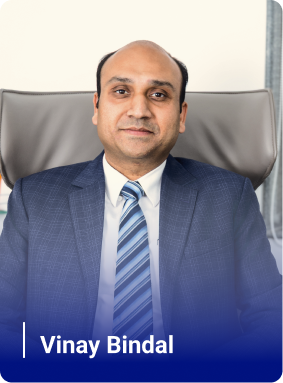
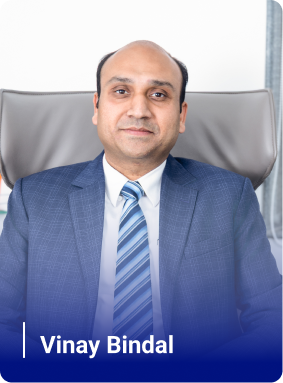
Navbar added activ link and chnages prfile pic in teams

diff --git a/src/components/team/team-info.ts b/src/components/team/team-info.ts
@@ -5,23 +5,39 @@ export const teamInformation: TeamInfoProps[] = [
     {
         info: ankurShahInfo,
         isAlignRight: false,
-        description: `Ankur Shah is a seasoned consulting professional with over 14 years of experience across international taxation, transfer pricing, indirect taxation (GST), business valuations, and labour law compliance. A Chartered Accountant (CA) with a Bachelor’s degree in Commerce, he brings a wealth of expertise in guiding businesses through the complexities of India’s regulatory and tax landscape.<br><br>
+        description: `Ankur Shah is a seasoned consulting professional with over 14 years of experience in international taxation, transfer pricing, indirect taxation (GST), and business valuations. A Chartered Accountant (CA) with a Bachelor’s degree in Commerce, Ankur brings invaluable expertise to businesses navigating India’s complex regulatory and tax landscape, offering strategic insights and tailored solutions.<br><br>
  
-His career includes a distinguished nine-year tenure at Ernst & Young (EY), where he advised multinational corporations (MNCs) on tax-efficient structuring, cross-border investment planning, and regulatory compliance. Ankur has been instrumental in helping businesses navigate evolving tax regulations, optimize operations, and mitigate tax exposure. His expertise extends to handling Advance Pricing Agreements (APAs) for long-term tax certainty and supporting clients in high-stakes litigation before the Appellate Tribunal.<br><br>With a forward-thinking perspective, Ankur is committed to delivering value-driven solutions that empower businesses to thrive in a dynamic regulatory environment.<br><br>
+His career includes a distinguished 9-year tenure at Ernst & Young (EY), where he advised multinational corporations (MNCs) on tax-efficient structuring, cross-border investment planning, and regulatory compliance. Ankur has been instrumental in helping businesses adapt to evolving tax regulations, optimize operations, and manage tax exposure. His experience also extends to handling Advance Pricing Agreements (APAs) for long-term tax certainty and representing clients in critical litigation before the Appellate Tribunal.<br><br>
  
-Ankur is a trusted advisor to both global enterprises and Indian businesses, being recognized for his strategic insights and practical solutions. His core areas of expertise include:<br>
+For Alvino Consultancy, Ankur plays a strategic advisory role, helping businesses make informed decisions around tax structuring, compliance, and operational efficiency. His approach combines in-depth knowledge with practical, value-driven solutions that enable businesses to thrive in a dynamic regulatory environment.<br><br>
+Ankur’s core areas of expertise include:<br>
 `,
-        listItems: [`Transfer Pricing: Compliance, strategic optimization, litigation support and managing APA cases.`, "Cross-Border Taxation: Structuring for India inbound and/ or outbound market entry, providing end-to-end support.", "Indirect Tax (GST): Compliance, advisory and litigation support.", "Business Valuation: Valuations for M&A and strategic decisions.", "Labour Law: Compliance and advisory services.", "Incentives Advisory: Assisting clients in obtaining government incentives and tax benefits.", "Equity & Debt Financing: Advising and supporting start-ups / businesses seeking finance"]
+        listItems: [
+            `<strong>Transfer Pricing:</strong> Compliance, strategic optimization, litigation support, and APA management.`,
+            "<strong>Indirect Tax (GST):</strong> Compliance, advisory, and litigation support.",
+            "<strong>Cross-Border Taxation:</strong> Structuring for inbound and outbound market entry, offering comprehensive support.",
+            "<strong>Incentives Advisory:</strong> Helping clients navigate and secure government incentives and tax benefits.",
+            "<strong>Business Valuation:</strong> Conducting valuations for M&A and strategic decision-making.",
+            "<strong>Equity & Debt Financing:</strong> Advising and supporting start-ups / businesses seeking finance"
+        ]
     },
     {
         info: bhaveshMehtaInfo,
         isAlignRight: true,
-        description: `Bhavesh Mehta is a distinguished consulting professional with over 14 years of expertise in corporate tax advisory, mergers & acquisitions (M&A), international taxation, cross-border investments, business valuations, and assurance advisory. A Chartered Accountant (CA) and a Bachelor of Commerce graduate, Bhavesh has a proven track record of advising leading multinational corporations on complex tax and regulatory matters, with a sharp focus on optimizing business tax structures and ensuring long-term tax efficiency.
-<br><br>With a deep understanding of India’s intricate tax and regulatory landscape, Bhavesh has successfully helped corporate clients streamline tax functions, enhance operational efficiency, and navigate industry-specific compliance requirements. His career includes over nine years with esteemed firms such as Economic Laws Practice (ELP) and BDO India, where he advised on high-profile M&A transactions, tax disputes, and regulatory compliance. Bhavesh has also represented clients before tax authorities up to the Appellate Tribunal, reinforcing his reputation as a trusted advocate in complex tax matters.
-<br><br>With a meticulous approach, Bhavesh is committed to delivering value-driven solutions that empower businesses to navigate complexities, optimize tax positions, and drive sustainable success.
-<br><br>Recognized for his strategic insights, technical analysis and pragmatic solutions, Bhavesh serves as a trusted advisor to businesses seeking sustainable growth and tax optimization. His core areas of expertise include:
+        description: `Bhavesh Mehta is a distinguished consulting professional with over 14 years of expertise in corporate tax advisory, mergers & acquisitions (M&A), international taxation, cross-border investments, business valuations, and assurance advisory. A Chartered Accountant (CA) and a Bachelor of Commerce graduate, Bhavesh has built a reputation for advising leading multinational corporations on complex tax and regulatory matters, with a strong focus on optimizing business tax structures and ensuring long-term tax efficiency.
+<br><br>With a deep understanding of India’s intricate tax and regulatory landscape, Bhavesh has consistently helped corporate clients streamline tax functions, enhance operational efficiency, and navigate industry-specific compliance requirements. His career includes over nine years with respected firms such as Economic Laws Practice (ELP) and BDO India, where he provided strategic guidance on high-profile M&A transactions, tax disputes, and regulatory compliance. Bhavesh has also represented clients before tax authorities up to the Appellate Tribunal, further cementing his reputation as a trusted advocate in complex tax matters.
+<br><br>For Alvino Consultancy, Bhavesh plays a key advisory role, providing strategic counsel on a range of tax and business challenges. His approach blends in-depth technical knowledge with practical solutions that empower businesses to optimize their tax positions, navigate regulatory complexities, and achieve sustainable growth.
+<br><br>Bhavesh’s core areas of expertise include:
 `,
-        listItems: ["Corporate Tax Advisory: Structuring efficient tax solutions for businesses.", "Cross-Border Taxation: Optimizing tax strategies for global operations.", "M&A & Business Valuation: Advising on tax aspects of mergers, acquisitions, and valuations.", "Assurance & Compliance: Providing strategic advisory for transparency and compliance.", "Wealth Management: Tailored solutions for personal wealth and family estates.", "Equity & Debt Financing: Structuring capital solutions for growth."]
+        subDescription: `<br>Through his advisory role at Alvino Consultancy, Bhavesh is recognized for delivering value-driven solutions that help businesses optimize their tax positions and navigate the complexities of a dynamic regulatory environment.`,
+        listItems: [
+            "<strong>Corporate Tax Advisory:</strong> Structuring efficient tax solutions for businesses.",
+            "<strong>Cross-Border Taxation:</strong> Optimizing tax strategies for global operations.",
+            "<strong>M&A & Business Valuation:</strong> Advising on tax aspects of mergers, acquisitions, and valuations.",
+            "<strong>Assurance & Compliance:</strong> Providing strategic advisory for transparency and compliance.",
+            "<strong>Wealth Management:</strong> Tailored solutions for personal wealth and family estates.",
+            "<strong>Equity & Debt Financing:</strong> Structuring capital solutions for growth."
+        ]
     },
     {
         info: vinayBindalInfo,

diff --git a/src/components/navbar/Navbar.tsx b/src/components/navbar/Navbar.tsx
@@ -190,7 +190,11 @@ const Navbar = () => {
                                 <div className='flex items-center justify-center space-x-2'>
                                     <a
                                         href={item.link || '#'}
-                                        className="hover:text-blue-title flex items-center text-gray-description font-semibold transform transition-all duration-300 ease-in-out hover:scale-125" // Add zoom effect on hover
+                                        className={`hover:text-blue-title flex items-center font-semibold transform transition-all duration-300 ease-in-out hover:scale-125 ${location.pathname === item.link ||
+                                            (item.link === "/services" && location.pathname.startsWith("/services"))
+                                            ? "text-blue-title"
+                                            : "text-gray-description"
+                                            }`} // Add zoom effect on hover
                                     >
                                         {item.name}
                                     </a>
@@ -208,12 +212,12 @@ const Navbar = () => {
                                 </div>
                                 {/* Dropdown */}
                                 {item.dropdown && openDropdown === index && (
-                                    <ul className="absolute left-0 mt-1 min-w-72 bg-white shadow-lg rounded-md">
+                                    <ul className="absolute left-0 mt-1 min-w-72 bg-white shadow-lg rounded-md group-hover:block">
                                         {item.dropdown.map((dropdownItem, subIndex) => (
                                             <li key={subIndex} className="hover:text-blue-title text-gray-description font-medium text-base relative" onMouseEnter={() => toggleSubDropdown(subIndex)}
                                                 onMouseLeave={() => toggleSubDropdown(null)}>
                                                 <div className='flex items-center justify-between pl-8 py-2 hover:bg-blue-light'>
-                                                    <a href={dropdownItem.link || "#"} className='transform transition-all duration-300 ease-in-out hover:scale-110'>
+                                                    <a href={dropdownItem.link || "#"} className={`transform transition-all duration-300 ease-in-out hover:scale-110 ${location.pathname === dropdownItem.link ? "text-blue-title" : "text-gray-description"}`}>
                                                         {dropdownItem.name}
                                                     </a>
                                                     <div

diff --git a/src/components/team/TeamInfo.tsx b/src/components/team/TeamInfo.tsx
@@ -2,7 +2,7 @@ import React from "react";
 import { TeamInfoProps } from "./TeamInfo.types";
 import InfoCard from "../info-card/InfoCard";
 
-const TeamInfo: React.FC<TeamInfoProps> = ({ info, description, isAlignRight = false, listItems }) => {
+const TeamInfo: React.FC<TeamInfoProps> = ({ info, description, isAlignRight = false, listItems, subDescription }) => {
     return (
         <div
             className={`grid grid-cols-1 lg:grid-cols-12 gap-3 md:gap-6 items-start lg:px-10 pb-20 `}
@@ -19,10 +19,11 @@ const TeamInfo: React.FC<TeamInfoProps> = ({ info, description, isAlignRight = f
                 {listItems && listItems.length > 0 && (
                     <ul className="list-disc ml-5 md:px-10">
                         {listItems.map((item, index) => (
-                            <li key={index} className="text-gray-description">{item}</li>
+                            <li key={index} className="text-gray-description" dangerouslySetInnerHTML={{ __html: item }}></li>
                         ))}
                     </ul>
                 )}
+                {subDescription && <p className="text-gray-description md:text-base leading-6 md:px-10" dangerouslySetInnerHTML={{ __html: subDescription }}></p>}
             </div>
         </div>
     );

diff --git a/src/components/team/TeamInfo.types.ts b/src/components/team/TeamInfo.types.ts
@@ -3,6 +3,7 @@ import { InfoCardTypeProps } from "../info-card/InforCard.types"
 export type TeamInfoProps = {
     info: InfoCardTypeProps,
     description: string;
+    subDescription?: string;
     isAlignRight: boolean;
     listItems: Array<string>
 }
